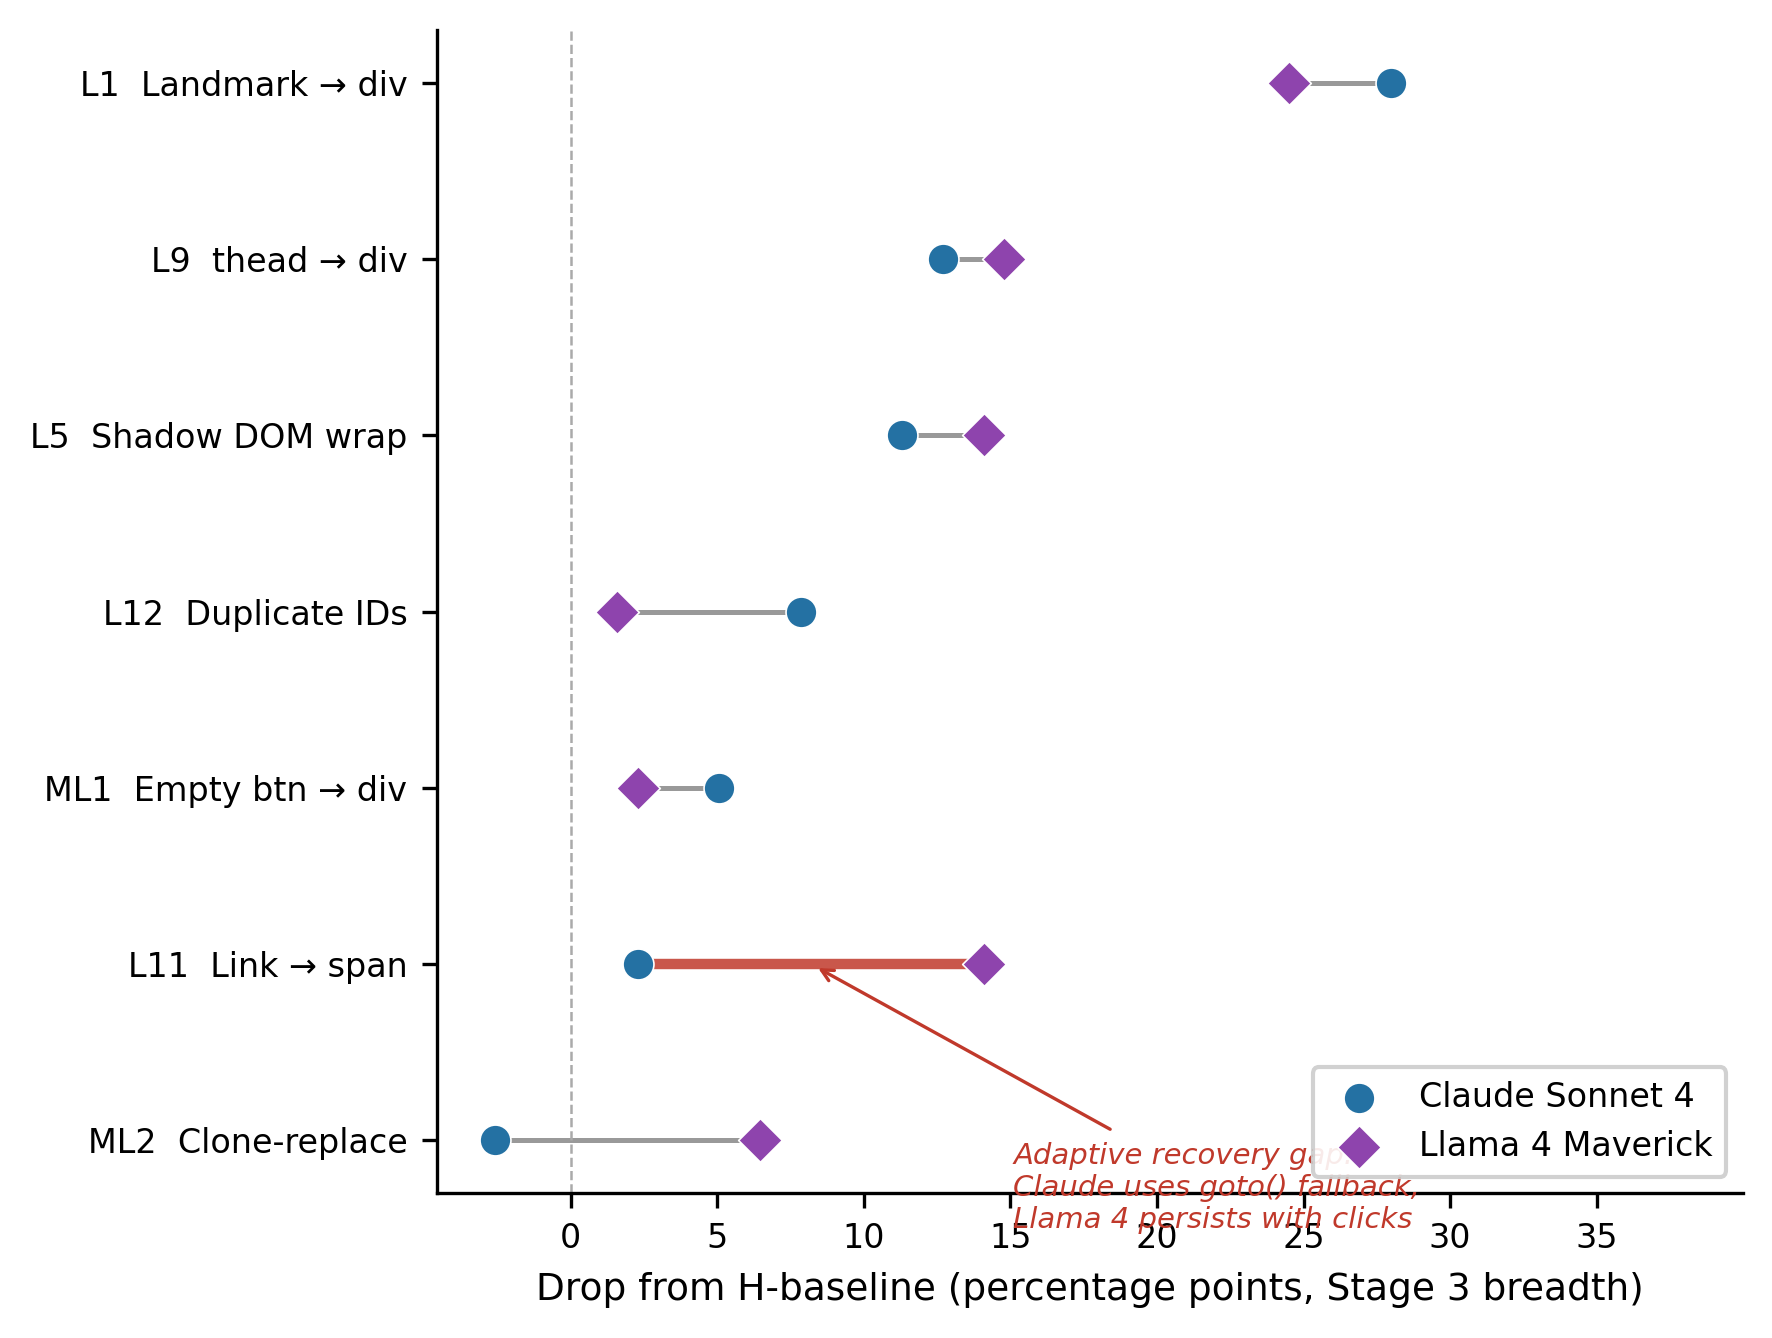
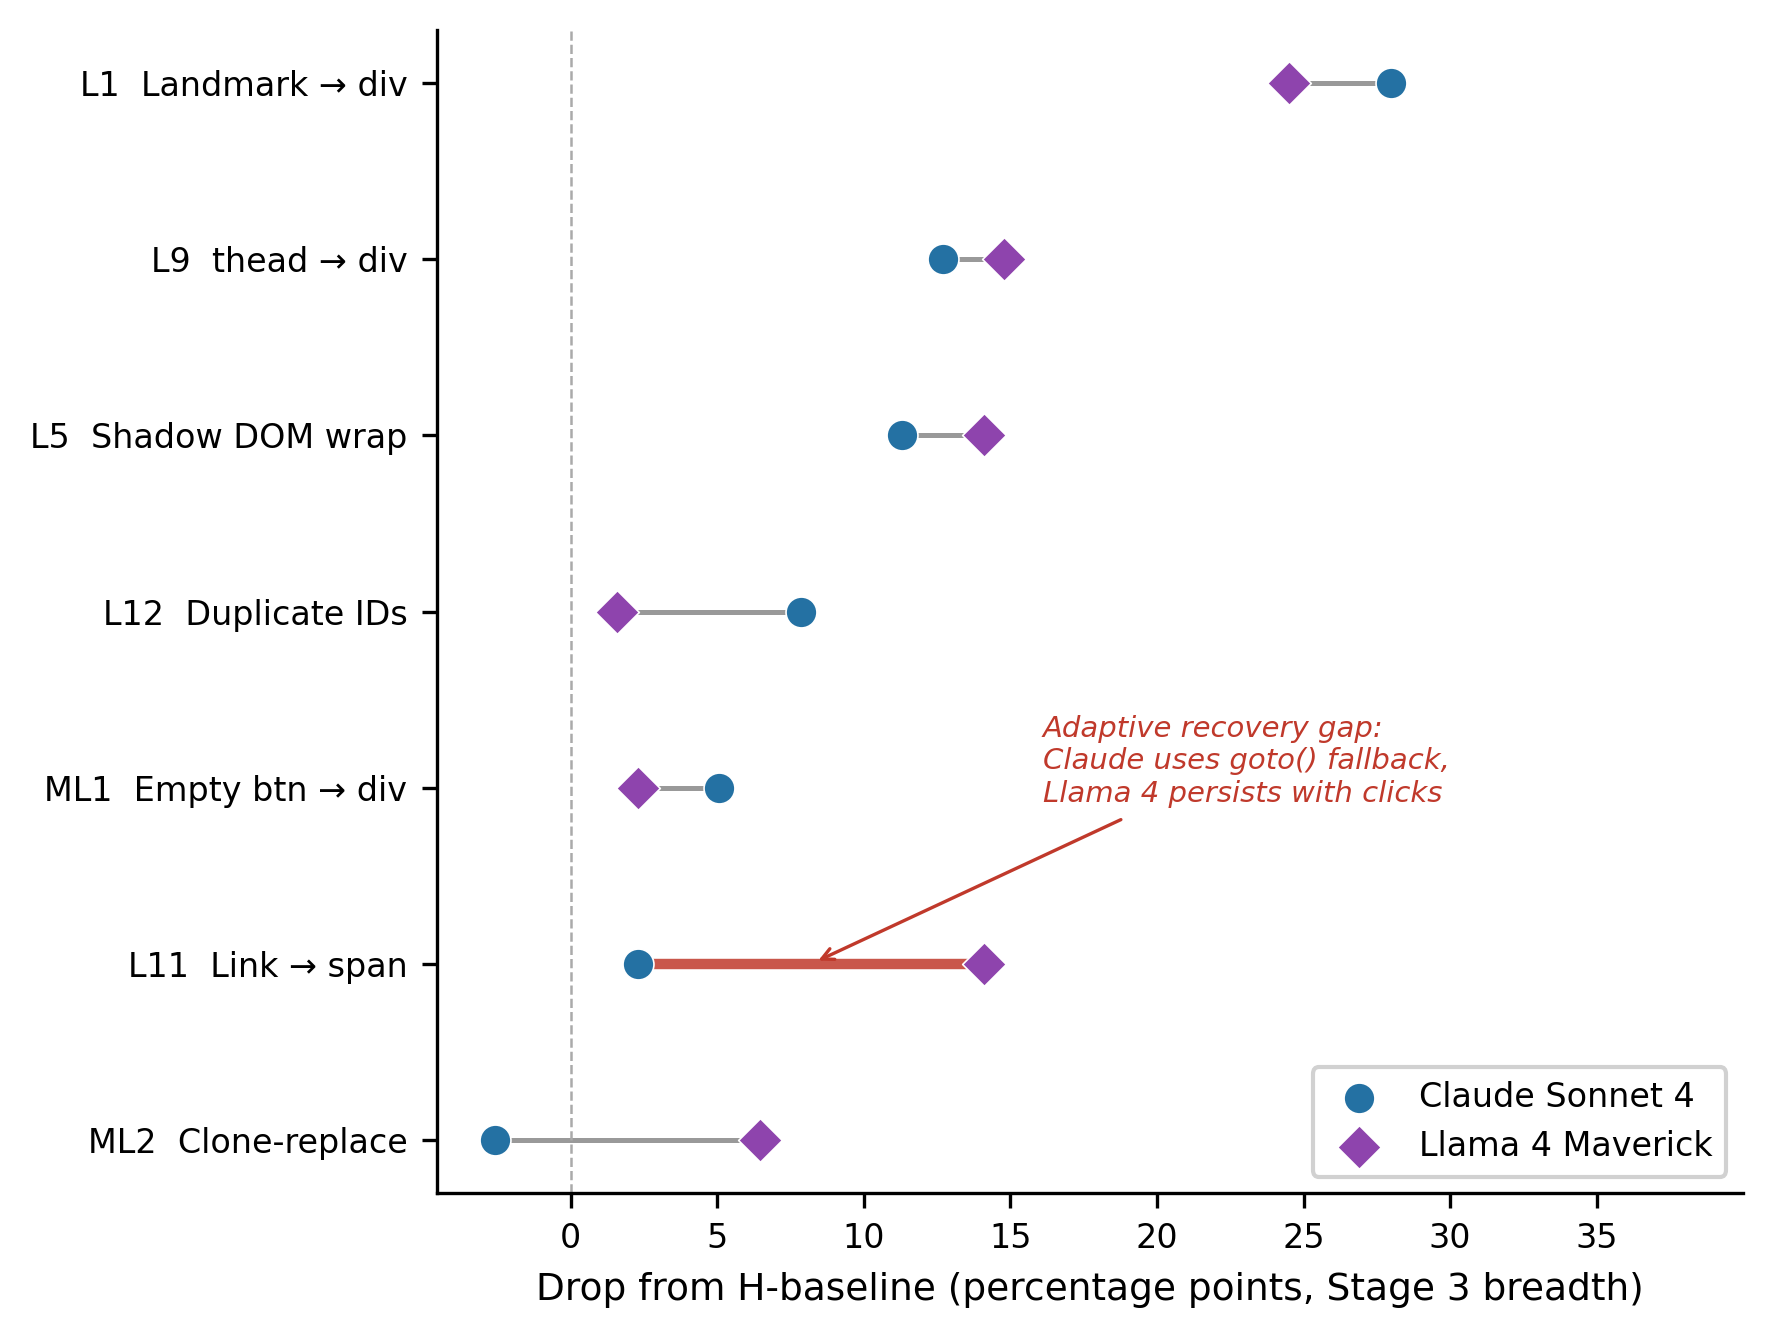
fig10: reposition L11 callout above its row (off the x-axis). Visual only.

diff --git a/figures/generate_fig10_cross_model.py b/figures/generate_fig10_cross_model.py
@@ -50,8 +50,9 @@ for i, row in df.iterrows():
     if row['operator'] == 'L11':
         ax.plot([c, l], [i, i], color=HIGHLIGHT_COLOR, linewidth=2.5, zorder=3, alpha=0.85)
         ax.annotate('Adaptive recovery gap:\nClaude uses goto() fallback,\nLlama 4 persists with clicks',
-                    xy=((c + l) / 2, i), xytext=(l + 1, i - 1.5),
+                    xy=((c + l) / 2, i), xytext=(l + 2, i + 1.15),
                     fontsize=7, color=HIGHLIGHT_COLOR, style='italic', ha='left',
+                    va='center',
                     arrowprops=dict(arrowstyle='->', color=HIGHLIGHT_COLOR, lw=0.8))
     else:
         ax.plot([c, l], [i, i], color='#999999', linewidth=1.2, zorder=2)